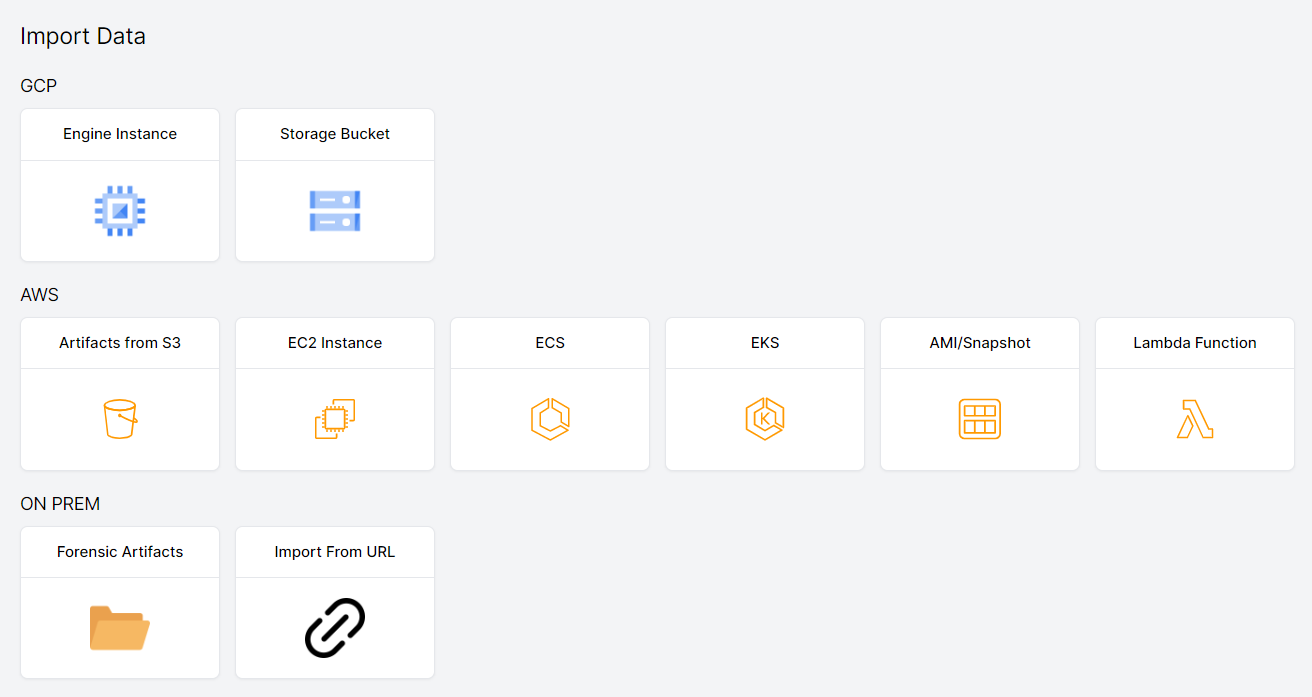
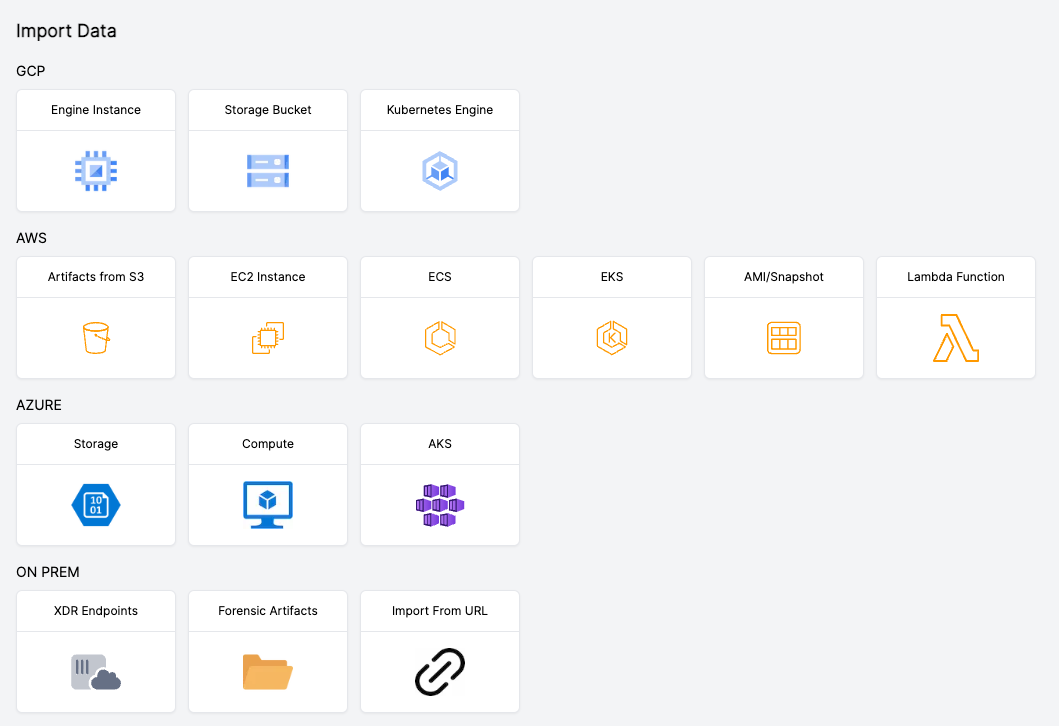
Add kubernetes docs

diff --git a/docs/cado-response/discovery-import/import/azure/azure-aks.md b/docs/cado-response/discovery-import/import/azure/azure-aks.md
@@ -1,16 +1,38 @@
 ---
-title: Azure AKS
+title: Azure Kubernetes Service
 hide_title: true
 sidebar_position: 3
 ---
 
-# Azure AKS
+# Azure Kubernetes Service
 
-The Cado platform supports acquisition of Azure AKS Containers. While the project is open, select *Import - Azure AKS*. Select the appropriate credentials and resource groups, and this will populate a list of available clusters.
+The Cado platform will collect key logs and forensic artifacts from Azure Kubernetes Service containers.
 
-![Azure AKS Cluster](/img/azure-aks-cluster.png)
+## Private Cluster Support
+As of release v2.31.0, the Cado platform now supports capture of AKS Private Clusters. It should be noted that the Cado platform
+uses the [Azure Command Invoke APIs](https://learn.microsoft.com/en-us/azure/aks/command-invoke) to achieve this functionality.
 
-Select the appropriate cluster, namespace, and pod respectively. Then select the container you wish to acquire and hit "Acquire Container".
+There are two main caveats to this method:
+1. The process is consideribly slower than capturing a Public Cluster
+2. The Azure API will spin up a pod inside the cluster to execute Cado Host, make sure that there are enough nodes and resources in your cluster to schedule this command pod.
 
+The newly created pod will shutdown and remove itself after 1 hour.
 
-![Azure AKS Comatiner Import](/img/azure-aks-container.png)
+## Import Steps
+
+1) Go to **Import > AKS**
+
+![Cado Import Screen showing the AKS options](/img/import.png)
+
+2) Choose the Azure Credenitals configured in [Azure > Cross Subscription and Tenancy](/cado-response/deploy/azure/azure-cross-tenancy-subscriptions)
+
+3) Choose the resource group the AKS cluster is attached to.
+
+4) Go through the steps to choose your **Cluster**, **Pod** and **Container**:
+
+![Cado Import Screen showing the available AKS Clusters](/img/aks.png)
+
+5) Cado will now automatically collect all the key logs and forensic artifacts from the container to enable an investigation.
+For a typical acquisition, import and processing will take a few minutes to complete.
+
+![Cado showing the confirmation screen of a successful AKS container capture](/img/eks3.png)

diff --git a/docs/cado-response/discovery-import/import/gcp/kubernetes-engine.md b/docs/cado-response/discovery-import/import/gcp/kubernetes-engine.md
@@ -1,0 +1,28 @@
+---
+title: Google Cloud Kubernetes Engine
+hide_title: true
+sidebar_position: 5
+---
+
+# Google Cloud Kubernetes Engine
+
+The Cado platform will collect key logs and forensic artifacts from Google Cloud Kubernetes Engine containers.
+
+## Import Steps
+
+1) Go to **Import > Kubernetes Engine**
+
+![Cado Import Screen showing the Kubernetes Engine options](/img/import.png)
+
+2) Go through the steps to choose your **Cluster**, **Pod** and **Container**:
+
+![Cado Import Screen showing the available Kubernetes Engine Clusters](/img/gke.png)
+
+3) Cado will now automatically collect all the key logs and forensic artifacts from the container to enable an investigation.
+For a typical acquisition, import and processing will take a few minutes to complete.
+
+![Cado showing the confirmation screen of a successful Kubernetes Engine container capture](/img/eks3.png)
+
+
+
+

diff --git a/docs/cado-response/discovery-import/import/aws/aws-eks.md b/docs/cado-response/discovery-import/import/aws/aws-eks.md
@@ -38,10 +38,6 @@ included in the RBAC, not just the cross account created in [AWS Cross Account C
 
 ## Import Steps
 
-:::info
-Please note that communication with EKS can take upwards to 30 seconds or more.
-:::
-
 1) Go to **Import > AWS EKS**
 
 ![Cado Import Screen showing the AWS EKS options](/img/import.png)
